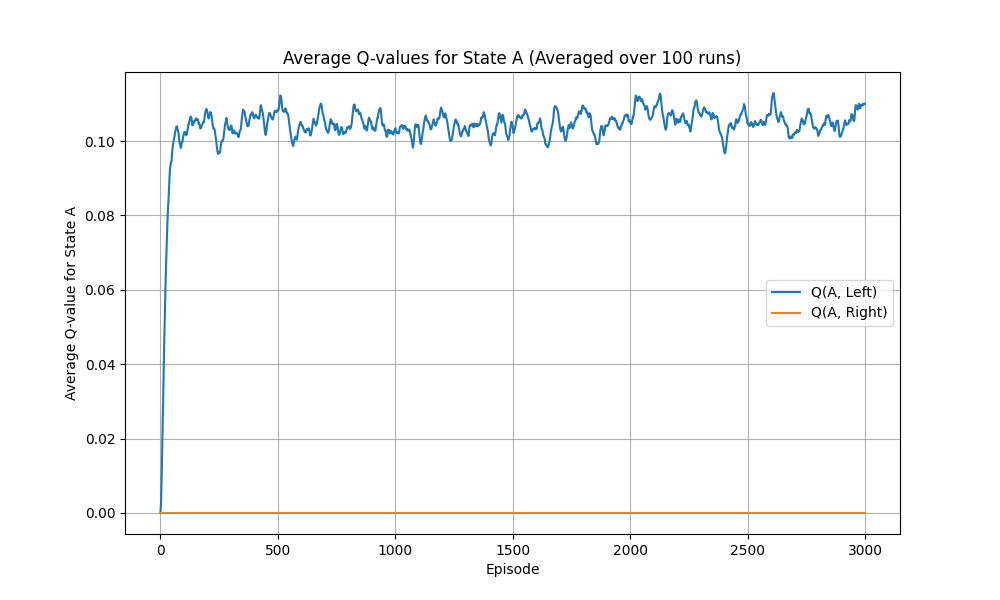
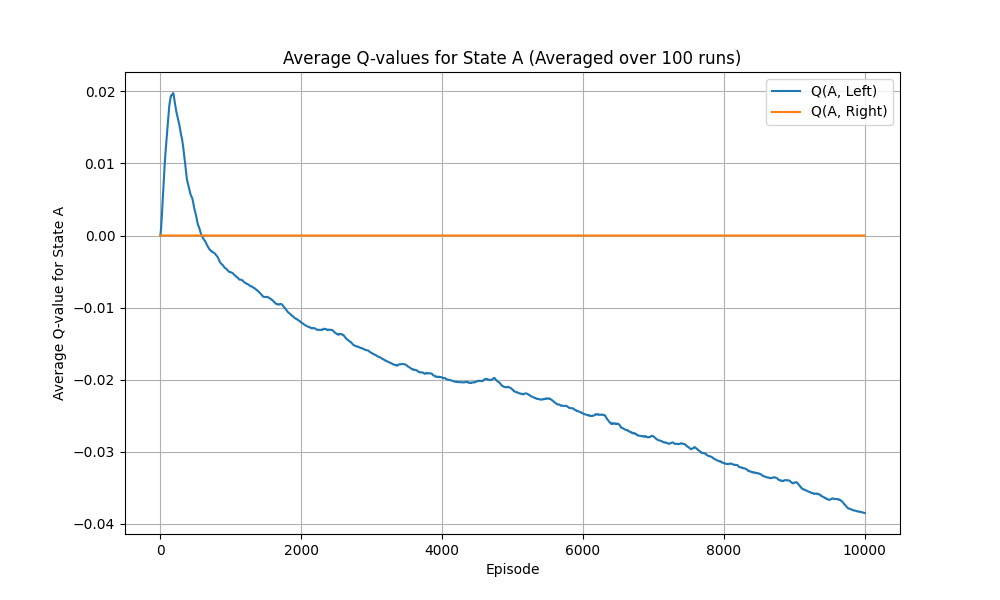
plot the overestimation phenomenon

diff --git a/experiments/maximization_bias/q_learning.py b/experiments/maximization_bias/q_learning.py
@@ -32,7 +32,8 @@ class MaximizationBiasQLearning(QLearning):
         self.reset()
         left_action_count = 0  # To track how often left action is taken
         left_action_ratio = []
-        
+        max_q_values_B = []  # To store the max Q-value for state B
+
         for index in range(num_episode):
             state, info = self.env.reset()
             done = False
@@ -57,8 +58,11 @@ class MaximizationBiasQLearning(QLearning):
 
             # Calculate and store the left action ratio after each episode
             left_action_ratio.append(left_action_count / (index + 1))
-        
-        return left_action_ratio
+
+            # Store the maximum Q-value for state B
+            max_q_values_B.append(np.max(self.Q[1]))  # State B is 1
+
+        return left_action_ratio, max_q_values_B
     
     def improve_policy(self, state):
         tolerance = 1e-8
@@ -80,6 +84,7 @@ class QLearningWithLogging(MaximizationBiasQLearning):
         left_action_ratio = []
         q_values_A = []  # To store Q-values for state A
         q_values_B = []  # To store Q-values for state B
+        max_q_values_B = []  # To store the max Q-value for state B
 
         for index in range(num_episode):
             state, info = self.env.reset()
@@ -108,48 +113,55 @@ class QLearningWithLogging(MaximizationBiasQLearning):
             # Store Q-values for state B (this may involve multiple actions)
             q_values_B.append(self.Q[1].copy())
 
+            # Store the maximum Q-value for state B
+            max_q_values_B.append(np.max(self.Q[1]))  # State B is 1
+
             # Calculate and store the left action ratio after each episode
             left_action_ratio.append(left_action_count / (index + 1))
         
-        return left_action_ratio, q_values_A, q_values_B
+        return left_action_ratio, q_values_A, q_values_B, max_q_values_B
 
 def run_multiple_experiments(agent, num_episodes_per_run, num_runs):
     all_runs_left_action_ratios = []
     all_runs_q_values_A = []
     all_runs_q_values_B = []
+    all_runs_max_q_values_B = []
 
     for _ in tqdm(range(num_runs), desc="Running experiments"):
-        left_action_ratio, q_values_A, q_values_B = agent.estimation_and_control(num_episodes_per_run)
+        left_action_ratio, q_values_A, q_values_B, max_q_values_B = agent.estimation_and_control(num_episodes_per_run)
         all_runs_left_action_ratios.append(left_action_ratio)
         all_runs_q_values_A.append(q_values_A)
         all_runs_q_values_B.append(q_values_B)
+        all_runs_max_q_values_B.append(max_q_values_B)
 
     # Convert list of lists to numpy arrays for easier manipulation
     all_runs_left_action_ratios = np.array(all_runs_left_action_ratios)
     all_runs_q_values_A = np.array(all_runs_q_values_A)
     all_runs_q_values_B = np.array(all_runs_q_values_B)
+    all_runs_max_q_values_B = np.array(all_runs_max_q_values_B)
 
     # Compute the average across the runs
     avg_left_action_ratio = np.mean(all_runs_left_action_ratios, axis=0)
     avg_q_values_A = np.mean(all_runs_q_values_A, axis=0)
     avg_q_values_B = np.mean(all_runs_q_values_B, axis=0)
+    avg_max_q_values_B = np.mean(all_runs_max_q_values_B, axis=0)
 
-    return avg_left_action_ratio, avg_q_values_A, avg_q_values_B
+    return avg_left_action_ratio, avg_q_values_A, avg_q_values_B, avg_max_q_values_B
 
 if __name__ == '__main__':
     set_seed()
     log_dir = os.path.dirname(os.path.abspath(__file__))
     ##### 0. Load environment and initiate policy #####
-    env = MaximizationBias(num_action_at_state_B=3)  # Set the number of actions at state B
-    agent = QLearningWithLogging(env=env, alpha=0.1)
+    env = MaximizationBias(num_action_at_state_B=10)  # Set the number of actions at state B
+    agent = QLearningWithLogging(env=env, alpha=0.01)  # Use small alpha to stablize learning
 
     ##### 1. Use Q-learning to solve the Maximization Bias problem #####
-    num_episode = 3_000
+    num_episode = 10_000
     num_runs = 100
     window_size = 1
 
     agent.reset()
-    avg_left_action_ratio, avg_q_values_A, avg_q_values_B = run_multiple_experiments(agent, num_episodes_per_run=num_episode, num_runs=num_runs)
+    avg_left_action_ratio, avg_q_values_A, avg_q_values_B, avg_max_q_values_B = run_multiple_experiments(agent, num_episodes_per_run=num_episode, num_runs=num_runs)
 
     smoothed_left_action_ratio = moving_average_with_padding(data=avg_left_action_ratio, window_size=window_size)
 
@@ -187,5 +199,16 @@ if __name__ == '__main__':
     plt.grid(True)
     plt.legend()
     plot_path = os.path.join(log_dir, f'q_learning_q_values_B_avg_{num_runs}runs.png')
+    plt.savefig(plot_path)
+    plt.show()
+
+    # Plot the maximum Q-value for state B over episodes
+    plt.figure(figsize=(10, 6))
+    plt.plot(range(num_episode), avg_max_q_values_B, label="Max Q(B)")
+    plt.xlabel('Episode')
+    plt.ylabel('Max Q-value for State B')
+    plt.title(f'Max Q-value for State B (Averaged over {num_runs} runs)')
+    plt.grid(True)
+    plot_path = os.path.join(log_dir, f'q_learning_max_q_values_B_avg_{num_runs}runs.png')
     plt.savefig(plot_path)
     plt.show()

diff --git a/envs/maximization_bias.py b/envs/maximization_bias.py
@@ -36,7 +36,7 @@ class MaximizationBias(gym.Env):
         elif self.state == 1:  # In state B
             if action in range(self.num_action_at_state_B):  # Any action in state B leads to termination
                 self.state = 2  # Transition to terminal state
-                reward = np.random.normal(0.1, 0.2)  # Sample reward from N(-0.1, 1.0)
+                reward = np.random.normal(-0.1, 1.0)  # Sample reward from N(-0.1, 1.0)
                 self.done = True
             else:
                 raise ValueError(f"Invalid action in state B: {action}")
@@ -58,7 +58,7 @@ class MaximizationBias(gym.Env):
 
 if __name__ == "__main__":
     env = MaximizationBias(num_action_at_state_B=1)
-    num_episode = 300
+    num_episode = 100
     rewards_at_B = []
 
     # Run 100 episodes
